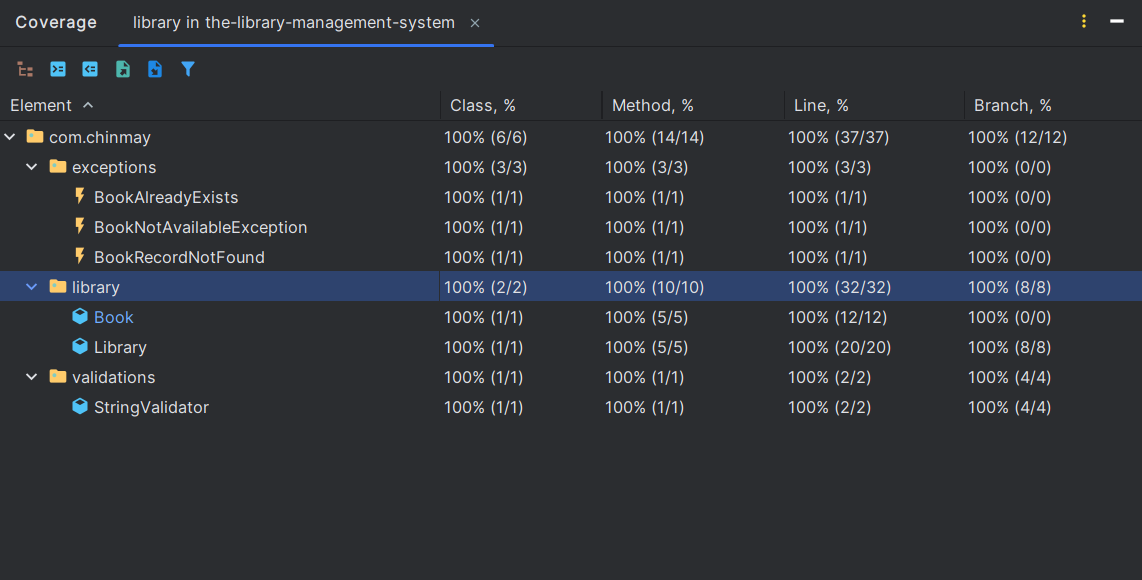
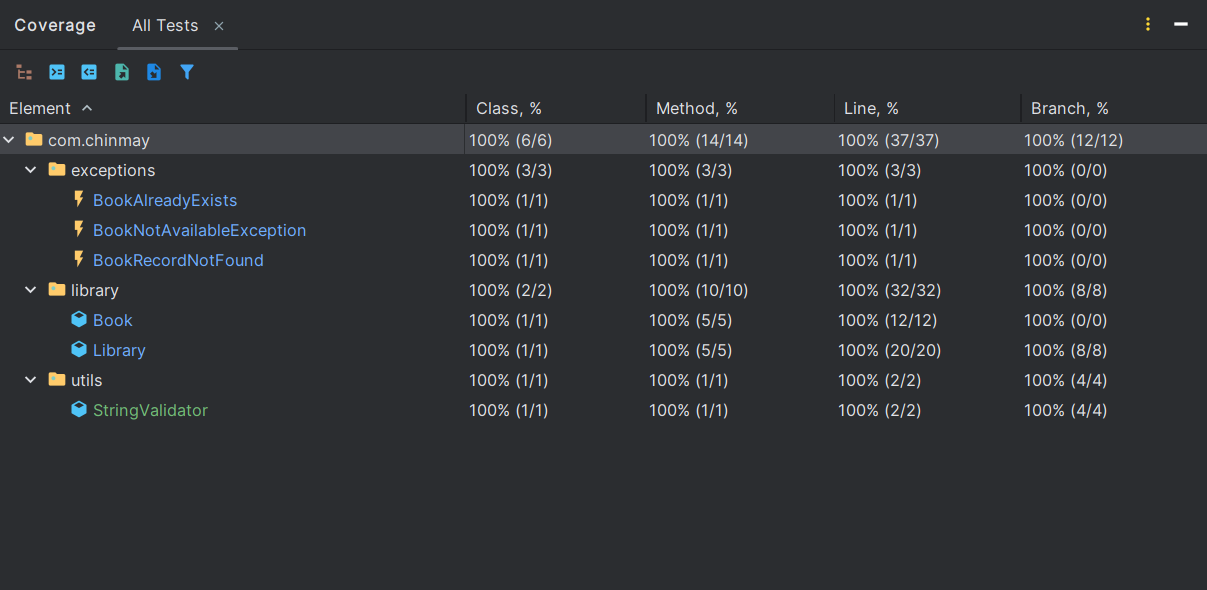
[Refactoring] Reduced Code duplication, added some test scenarios and added meaningful comments

Changed region(s): [[0.0, 0.031, 1.0, 0.7138], [0.9501, 0.031, 0.9807, 0.0621]]

diff --git a/src/test/java/com/chinmay/library/LibraryTest.java b/src/test/java/com/chinmay/library/LibraryTest.java
@@ -7,58 +7,52 @@ import com.chinmay.exceptions.BookNotAvailableException;
 import com.chinmay.exceptions.BookRecordNotFound;
 import org.junit.jupiter.api.BeforeEach;
 import org.junit.jupiter.api.Test;
+import org.junit.jupiter.params.ParameterizedTest;
+import org.junit.jupiter.params.provider.Arguments;
+import org.junit.jupiter.params.provider.MethodSource;
 
 import java.util.List;
+import java.util.stream.Stream;
 
 class LibraryTest {
     Library library;
-    
+
+    private static Stream<Arguments> provideInvalidBookData() {
+        return Stream.of(
+                Arguments.of(null, "1984", "George Orwell", 1949),
+                Arguments.of("9788192910901", null, "George Orwell", 1949),
+                Arguments.of("9788192910901", "1984", null, 1949),
+                Arguments.of("", "1984", "George Orwell", 1949),
+                Arguments.of("9788192910901", "", "George Orwell", 1949),
+                Arguments.of("9788192910901", "1984", "", 1949),
+                Arguments.of("  ", "1984", "George Orwell", 1949) //Any field with spaces throws exception
+        );
+    }
+
     @BeforeEach
     void setUp() {
         library = new Library();
     }
 
+    //Tests for addBooks() method
     @Test
-    void returnsTrueIfBookIsAvailable() {
+    void testBookAddedSuccessfully() {
         library.addBook("9788192910901", "1984", "George Orwell", 1949);
         assertTrue(library.isBookAvailable("9788192910901"));
     }
 
     @Test
-    void returnsFalseIfBookIsAvailable() {
+    void testReturnsFalseIfBookIsNotAdded() {
         assertFalse(library.isBookAvailable("1234567890"));
     }
 
-    @Test
-    void testAddBookWithNullIsbnThrowsException() {
-        assertThrows(IllegalArgumentException.class, () -> library.addBook(null, "1984", "George Orwell", 1949));
+    @ParameterizedTest
+    @MethodSource("provideInvalidBookData")
+    void testAddBookWithInvalidInputsThrowsException(String isbn, String title, String author, int year) {
+        assertThrows(IllegalArgumentException.class, () -> library.addBook(isbn, title, author, year));
     }
 
-    @Test
-    void testAddBookWithNullTitleThrowsException() {
-        assertThrows(IllegalArgumentException.class, ()->library.addBook("9788192910901", null, "George Orwell", 1949));
-    }
-
-    @Test
-    void testAddBookWithNullAuthorThrowsException() {
-        assertThrows(IllegalArgumentException.class, ()->library.addBook("9788192910901", "1984", null, 1949));
-    }
-
-    @Test
-    void testAddBookWithEmptyIsbnThrowsException() {
-        assertThrows(IllegalArgumentException.class, () -> library.addBook("", "1984", "George Orwell", 1949));
-    }
-
-    @Test
-    void testAddBookWithEmptyTitleThrowsException() {
-        assertThrows(IllegalArgumentException.class, () -> library.addBook("9788192910901", "", "George Orwell", 1949));
-    }
-
-    @Test
-    void testAddBookWithEmptyAuthorThrowsException() {
-        assertThrows(IllegalArgumentException.class, () -> library.addBook("9788192910901", "1984", "", 1949));
-    }
-
+    //Tests for borrowBooks() method
     @Test
     void testAllowToBorrowBookIfAvailable() {
         library.addBook("9788192910901", "1984", "George Orwell", 1949);
@@ -88,6 +82,7 @@ class LibraryTest {
         assertThrows(IllegalArgumentException.class, ()->library.borrowBook(""));
     }
 
+    //Tests for returnBooks() method
     @Test
     void testReturnedBookShouldBeAvailable() {
         library.addBook("9788192910901", "1984", "George Orwell", 1949);
@@ -140,6 +135,7 @@ class LibraryTest {
         assertTrue(library.isBookAvailable("9780385121675"));
     }
 
+    //Tests for viewAvailableBooks() method
     @Test
     void testAllAvailableBooksAreDisplayed() {
         library.addBook("9788192910901", "1984", "George Orwell", 1949);

diff --git a/src/main/java/com/chinmay/library/Library.java b/src/main/java/com/chinmay/library/Library.java
@@ -9,23 +9,44 @@ import java.util.List;
 import java.util.Map;
 import java.util.stream.Collectors;
 
-import static com.chinmay.validations.StringValidator.checkNotNullOrEmpty;
+import static com.chinmay.utils.StringValidator.stringValidator;
 
+/**
+ * The Library class manages the collection of books and their availability.
+ * It provides functionalities to add, borrow, return, and view books.
+ */
 public class Library {
-    private static final String ERROR_MESSAGE_ISBN = "Book ISBN cannot be null or empty";
-    
+    private static final String ERROR_ISBN = "Book ISBN cannot be null or empty";
+
+    // Stores books with their ISBN as the key
     private final Map<String, Book> books = new HashMap<>();
+
+    // Tracks the availability of each book (true if available, false if borrowed)
     private final Map<String, Boolean> bookAvailability = new HashMap<>();
 
-
+    /**
+     * Adds a new book to the library collection and marks it as available.
+     *
+     * @param isbn             the ISBN of the book, must not be null or empty
+     * @param title            the title of the book, must not be null or empty
+     * @param author           the author of the book, must not be null or empty
+     * @param publicationYear  the year the book was published
+     */
     public void addBook(String isbn, String title, String author, int publicationYear) {
         Book book = new Book(isbn, title, author, publicationYear);
         books.put(book.getIsbn(),book);
         bookAvailability.put(isbn,true);
     }
 
+    /**
+     * Borrows a book from the library, marking it as unavailable.
+     *
+     * @param isbn the ISBN of the book to borrow, must not be null or empty
+     * @throws BookRecordNotFound if the book with the given ISBN is not found
+     * @throws BookNotAvailableException if the book is already borrowed
+     */
     public void borrowBook(String isbn) {
-        checkNotNullOrEmpty(isbn, ERROR_MESSAGE_ISBN);
+        stringValidator(isbn, ERROR_ISBN);
 
         if (!books.containsKey(isbn)) {
             throw new BookRecordNotFound(isbn);
@@ -37,8 +58,15 @@ public class Library {
         bookAvailability.put(isbn,false);
     }
 
+    /**
+     * Returns a borrowed book to the library, marking it as available.
+     *
+     * @param isbn the ISBN of the book to return, must not be null or empty
+     * @throws BookRecordNotFound if the book with the given ISBN is not found
+     * @throws BookAlreadyExists if the book is already available
+     */
     public void returnBook(String isbn) {
-        checkNotNullOrEmpty(isbn, ERROR_MESSAGE_ISBN);
+        stringValidator(isbn, ERROR_ISBN);
 
         if (!books.containsKey(isbn)) {
             throw new BookRecordNotFound(isbn);
@@ -49,6 +77,11 @@ public class Library {
         bookAvailability.put(isbn,true);
     }
 
+    /**
+     * Returns a list of all available books in the library.
+     *
+     * @return a list of available books
+     */
     public List<Book> viewAvailableBooks() {
         return books.values()
                 .stream()
@@ -56,6 +89,12 @@ public class Library {
                 .collect(Collectors.toList());
     }
 
+    /**
+     * Checks if a book is available in the library.
+     *
+     * @param isbn the ISBN of the book to check
+     * @return true if the book is available, false otherwise
+     */
     public boolean isBookAvailable(String isbn) {
         return bookAvailability.getOrDefault(isbn,false);
     }

diff --git a/src/main/java/com/chinmay/library/Book.java b/src/main/java/com/chinmay/library/Book.java
@@ -1,27 +1,43 @@
 package com.chinmay.library;
 
-import static com.chinmay.validations.StringValidator.checkNotNullOrEmpty;
+import static com.chinmay.utils.StringValidator.stringValidator;
 
+/**
+ * Represents a Book in the library.
+ * A Book is immutable and requires valid ISBN, title, and author upon creation.
+ */
 public class Book {
     private final String isbn;
     private final String title;
     private final String author;
     private final int publicationYear;
 
-    private static final String ERROR_MESSAGE_AUTHOR = "Book Author cannot be null or empty";
-    private static final String ERROR_MESSAGE_TITLE = "Book Title cannot be null or empty";
-    private static final String ERROR_MESSAGE_ISBN = "Book ISBN cannot be null or empty";
+    // Error messages for string validations
+    private static final String ERROR_AUTHOR = "Book Author cannot be null or empty";
+    private static final String ERROR_TITLE = "Book Title cannot be null or empty";
+    private static final String ERROR_ISBN = "Book ISBN cannot be null or empty";
+
+    /**
+     * Constructor for creating a Book object.
+     *
+     * @param isbn             the unique ISBN identifier for the book, must not be null or empty
+     * @param title            the title of the book, must not be null or empty
+     * @param author           the author of the book, must not be null or empty
+     * @param publicationYear  the year the book was published
+     * @throws IllegalArgumentException if any of the mandatory fields (isbn, title, author) are null or empty
+     */
 
     public Book(String isbn, String title, String author, int publicationYear) {
-        checkNotNullOrEmpty(isbn, ERROR_MESSAGE_ISBN);
-        checkNotNullOrEmpty(title, ERROR_MESSAGE_TITLE);
-        checkNotNullOrEmpty(author, ERROR_MESSAGE_AUTHOR);
+        stringValidator(isbn, ERROR_ISBN);
+        stringValidator(title, ERROR_TITLE);
+        stringValidator(author, ERROR_AUTHOR);
         this.isbn = isbn;
         this.title = title;
         this.author = author;
         this.publicationYear = publicationYear;
     }
 
+    //Getters for all fields of Book class
     public String getIsbn() {
         return isbn;
     }

diff --git a/src/main/java/com/chinmay/utils/StringValidator.java b/src/main/java/com/chinmay/utils/StringValidator.java
@@ -1,0 +1,24 @@
+package com.chinmay.utils;
+
+/**
+ * Utility class for validating strings.
+ * Ensures that strings are not null and not empty after trimming.
+ */
+public class StringValidator {
+
+    // Private constructor to prevent instantiation
+    private StringValidator(){}
+
+    /**
+     * Validates that the provided string is not null and not empty after trimming.
+     *
+     * @param value        the string to validate
+     * @param errorMessage the error message to include in the exception if validation fails
+     * @throws IllegalArgumentException if the string is null or empty
+     */
+    public static void stringValidator(String value, String errorMessage) {
+        if (value == null || value.trim().isEmpty()) {
+            throw new IllegalArgumentException(errorMessage);
+        }
+    }
+}

diff --git a/src/main/java/com/chinmay/exceptions/BookNotAvailableException.java b/src/main/java/com/chinmay/exceptions/BookNotAvailableException.java
@@ -1,5 +1,8 @@
 package com.chinmay.exceptions;
 
+/**
+ * Exception thrown when a book with the specified ISBN is currently unavailable.
+ */
 public class BookNotAvailableException extends RuntimeException {
     public BookNotAvailableException(String isbn) {
         super("Book with isbn "+isbn+" is currently unavailable.");

diff --git a/src/main/java/com/chinmay/exceptions/BookRecordNotFound.java b/src/main/java/com/chinmay/exceptions/BookRecordNotFound.java
@@ -1,5 +1,8 @@
 package com.chinmay.exceptions;
 
+/**
+ * Exception thrown when a book with the specified ISBN is not found in the library.
+ */
 public class BookRecordNotFound extends RuntimeException {
     public BookRecordNotFound(String isbn) {
         super("The book with isbn "+isbn+" does not exist in the library");

diff --git a/src/main/java/com/chinmay/exceptions/BookAlreadyExists.java b/src/main/java/com/chinmay/exceptions/BookAlreadyExists.java
@@ -1,5 +1,8 @@
 package com.chinmay.exceptions;
 
+/**
+ * Exception thrown when a book with the specified ISBN already exists in the library.
+ */
 public class BookAlreadyExists extends RuntimeException {
     public BookAlreadyExists(String isbn) {
         super("Book with isbn "+isbn+" already exists in the library");
